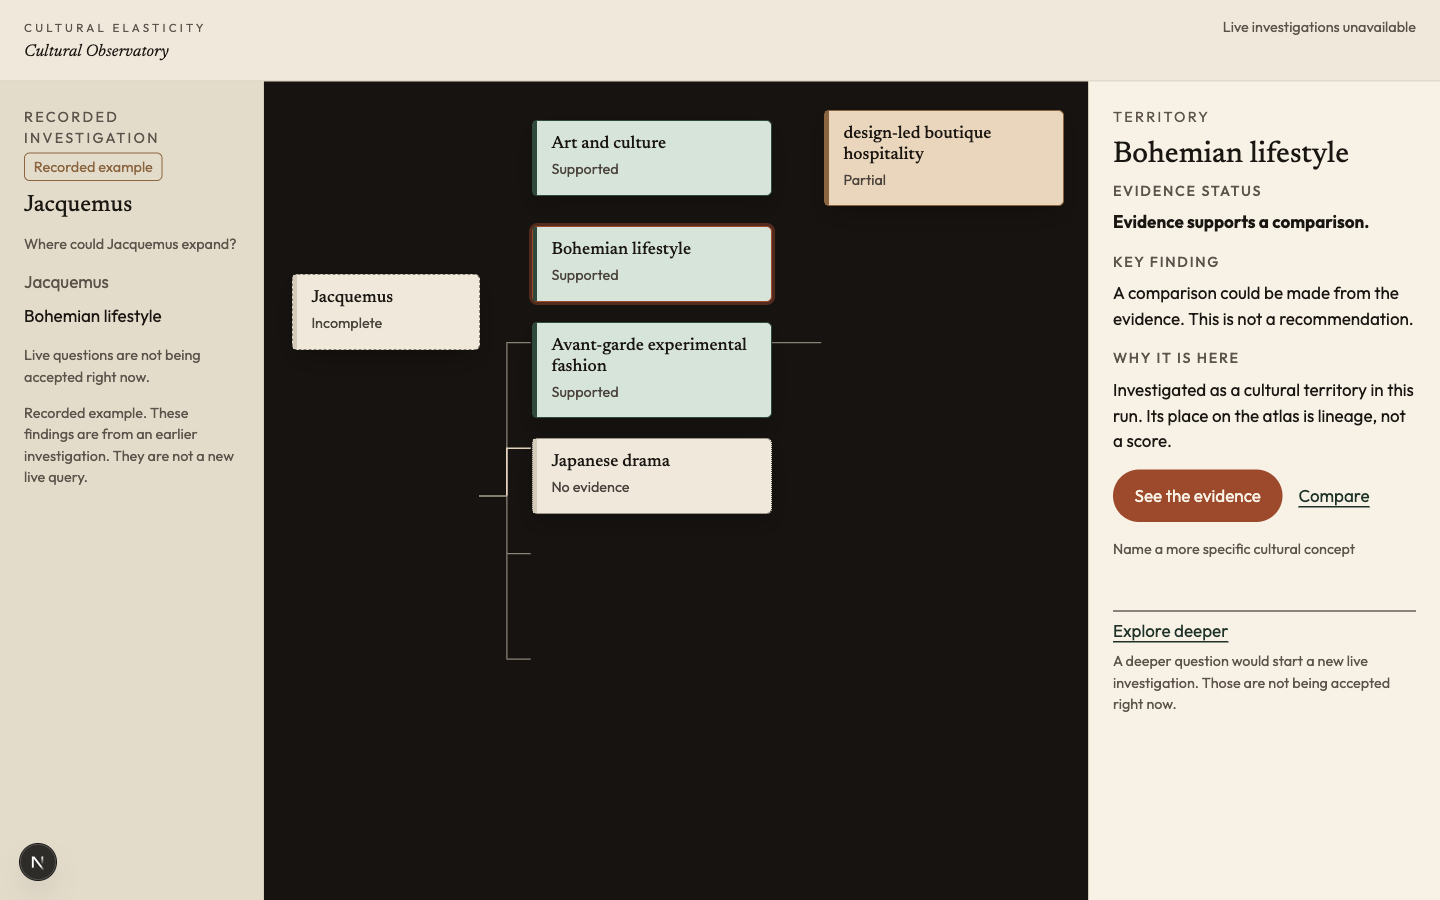
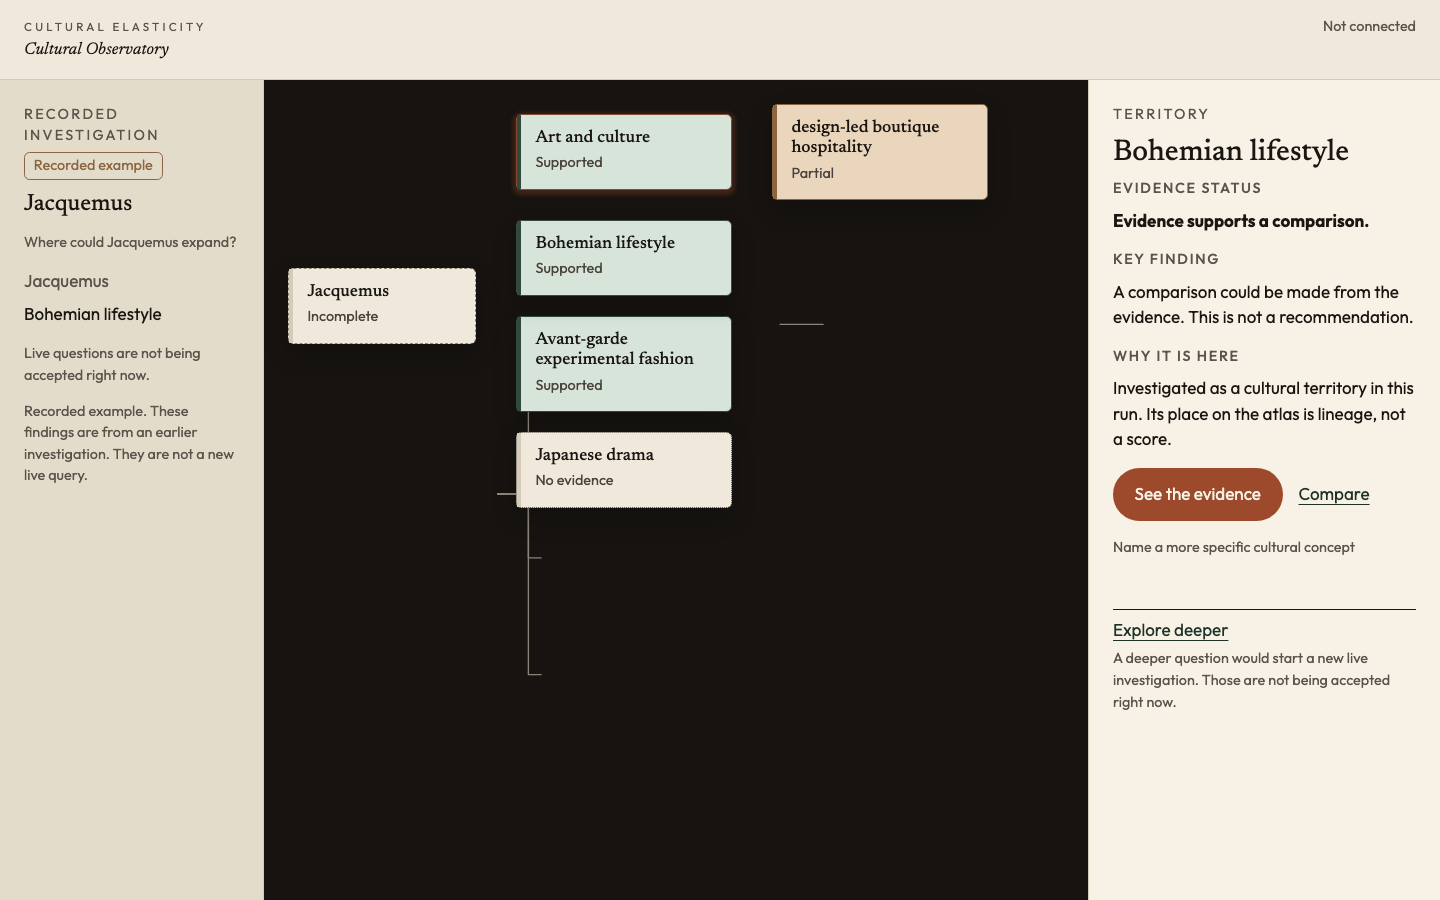
Keep nested territories visible in the landing preview and on tablet.
Scale the recorded tree to fit its pane, stack the finding under a full-width atlas below 1100px, and cover those layouts with Playwright checks.

diff --git a/frontend/src/app/globals.css b/frontend/src/app/globals.css
@@ -310,12 +310,14 @@ summary:focus-visible {
 
 .badge {
   display: inline-block;
+  width: max-content;
   margin: 0 0 var(--ce-space-3);
   padding: 0.15rem 0.55rem;
   border: 1px solid var(--ce-line);
   border-radius: var(--ce-radius);
   font-size: 0.9rem;
   color: var(--ce-ink-soft);
+  justify-self: start;
 }
 
 .badge[data-kind="recorded"] { border-color: var(--ce-brass); color: var(--ce-brass); }
@@ -359,6 +361,14 @@ summary:focus-visible {
   flex: 1;
   min-height: 28rem;
   overflow: auto;
+}
+
+.canvas[data-preview="true"] {
+  overflow: hidden;
+}
+
+.canvas__stage {
+  position: relative;
 }
 
 .canvas__edges {
@@ -410,7 +420,7 @@ summary:focus-visible {
 .atlas-node small { display: block; margin-top: 0.3rem; color: var(--ce-ink-soft); font-size: 0.9rem; line-height: 1.3; }
 
 .atlas-node[data-kind="brand"] { width: 11.75rem; }
-.landing__preview .canvas { overflow: auto; }
+.landing__preview .canvas { overflow: hidden; }
 .atlas-node[data-tone="supported"] { background: var(--ce-botanical-soft); border-color: var(--ce-botanical); }
 .atlas-node[data-tone="supported"] .atlas-node__mark { background: var(--ce-botanical); }
 .atlas-node[data-tone="partial"] { background: var(--ce-sand); border-color: var(--ce-brass); }
@@ -494,12 +504,13 @@ summary:focus-visible {
   overflow: auto;
   z-index: 5;
   box-shadow: var(--ce-shadow);
+  isolation: isolate;
   animation: inspector-in var(--ce-motion-med) ease;
 }
 
 @keyframes inspector-in {
-  from { transform: translateX(1.25rem); opacity: 0.4; }
-  to { transform: none; opacity: 1; }
+  from { transform: translateX(1.25rem); }
+  to { transform: none; }
 }
 
 .inspector h2, .inspector h3 { font-family: var(--ce-serif); font-weight: 500; }
@@ -530,9 +541,18 @@ summary:focus-visible {
 
 @media (max-width: 1099px) {
   .landing { grid-template-columns: 1fr; min-height: 0; padding-bottom: var(--ce-space-6); }
-  .landing__preview { min-height: 18rem; }
-  .workspace { grid-template-columns: minmax(0, 1.4fr) minmax(16rem, 0.9fr); grid-template-rows: auto 1fr; }
-  .rail { grid-column: 1 / -1; display: grid; grid-template-columns: 1fr 1fr; gap: var(--ce-space-4); border-right: 0; border-bottom: 1px solid var(--ce-line); }
+  .landing__preview { min-height: 20rem; }
+  .workspace { grid-template-columns: 1fr; grid-template-rows: auto minmax(24rem, 1fr) auto; }
+  .rail {
+    grid-column: 1;
+    display: grid;
+    grid-template-columns: minmax(0, 1fr) minmax(0, 1fr);
+    gap: var(--ce-space-4);
+    border-right: 0;
+    border-bottom: 1px solid var(--ce-line);
+  }
+  .observatory { min-height: 24rem; }
+  .finding { border-left: 0; border-top: 1px solid var(--ce-line); }
 }
 
 @media (max-width: 900px) {
@@ -552,17 +572,19 @@ summary:focus-visible {
   .mast { padding: var(--ce-space-3) var(--ce-space-4); }
   .landing { padding: var(--ce-space-5) var(--ce-space-4); min-height: calc(100vh - 4rem); overflow-x: hidden; }
   .landing h1 { font-size: clamp(2.2rem, 11vw, 3rem); }
-  .landing__preview { min-height: 14rem; max-height: 18rem; }
-  .landing__preview [role="list"], .canvas [role="list"] { width: 100% !important; height: auto !important; }
+  .landing__preview { min-height: 16rem; max-height: 20rem; }
   .landing__actions { flex-direction: column; align-items: stretch; }
   .landing__actions .primary, .landing__actions .ask { width: 100%; }
   .composer { flex-direction: column; align-items: stretch; }
   .workspace { display: flex; flex-direction: column; }
   .rail, .finding { width: 100%; }
   .observatory { background: var(--ce-paper); min-height: 0; }
-  .canvas { min-height: 0; overflow: visible; background: transparent; }
-  .canvas__edges { display: none; }
-  .atlas-node { position: static; width: 100%; margin-bottom: var(--ce-space-2); animation: none; }
+  .workspace .canvas { min-height: 0; overflow: visible; background: transparent; }
+  .workspace .canvas [role="list"] { width: 100% !important; height: auto !important; }
+  .workspace .canvas__edges { display: none; }
+  .workspace .atlas-node { position: static; width: 100%; margin-bottom: var(--ce-space-2); animation: none; }
+  .canvas[data-preview="true"] { overflow: hidden; min-height: 16rem; }
+  .canvas[data-preview="true"] .atlas-node { position: absolute; margin-bottom: 0; animation: none; }
   .rail { display: block; }
 }
 

diff --git a/frontend/src/components/atlas/InvestigationCanvas.tsx b/frontend/src/components/atlas/InvestigationCanvas.tsx
@@ -1,6 +1,6 @@
 "use client";
 
-import { useEffect, useMemo, useRef } from "react";
+import { useEffect, useMemo, useRef, useState } from "react";
 import { AtlasConnection } from "./AtlasConnection";
 import { AtlasNode } from "./AtlasNode";
 import { atlasExtent, boxOf, neighborId, type AtlasDraft } from "./atlas-model";
@@ -25,15 +25,33 @@ export function InvestigationCanvas({
   onSelect: (id: string) => void;
 }) {
   const scroller = useRef<HTMLDivElement>(null);
+  const [fit, setFit] = useState(1);
   const visible = useMemo(() => (guided ? guidedNodes(nodes, selectedId) : nodes), [guided, nodes, selectedId]);
   const extent = atlasExtent(nodes);
   useEffect(() => {
+    if (preview) return;
     const selected = scroller.current?.querySelector<HTMLElement>("[aria-pressed='true']");
     selected?.scrollIntoView({ block: "nearest", inline: "nearest", behavior: reducedMotion ? "auto" : "smooth" });
-  }, [selectedId, reducedMotion, guided]);
+  }, [selectedId, reducedMotion, guided, preview]);
+  useEffect(() => {
+    if (!preview) return;
+    const el = scroller.current;
+    if (!el) return;
+    const measure = () => {
+      const pad = 28;
+      const sx = (el.clientWidth - pad) / extent.width;
+      const sy = (el.clientHeight - pad) / extent.height;
+      if (!Number.isFinite(sx) || !Number.isFinite(sy) || sx <= 0 || sy <= 0) return;
+      setFit(Math.min(1, sx, sy) * 0.94);
+    };
+    measure();
+    const observer = new ResizeObserver(measure);
+    observer.observe(el);
+    return () => observer.disconnect();
+  }, [preview, extent.width, extent.height]);
 
-  return (
-    <div className="canvas" ref={scroller} data-testid="atlas-canvas" role="group" aria-label="Investigation">
+  const tree = (
+    <>
       {guided ? null : (
         <svg className="canvas__edges" aria-hidden="true" viewBox={`0 0 ${extent.width} ${extent.height}`} width={extent.width} height={extent.height}>
           {nodes.map((node) => {
@@ -62,6 +80,24 @@ export function InvestigationCanvas({
           </div>
         ))}
       </div>
+    </>
+  );
+
+  return (
+    <div className="canvas" ref={scroller} data-testid="atlas-canvas" data-preview={preview ? "true" : "false"} role="group" aria-label="Investigation">
+      {preview && !guided ? (
+        <div
+          className="canvas__stage"
+          style={{
+            width: extent.width,
+            height: extent.height,
+            transform: `scale(${fit})`,
+            transformOrigin: "0 0",
+          }}
+        >
+          {tree}
+        </div>
+      ) : tree}
     </div>
   );
 }

diff --git a/frontend/e2e/living-atlas.spec.ts b/frontend/e2e/living-atlas.spec.ts
@@ -115,6 +115,24 @@ test("a recorded example is labelled and does not start a job", async ({ page })
   expect(jobs).toEqual([]);
 });
 
+test("the landing preview keeps nested territories inside the pane", async ({ page }) => {
+  await page.setViewportSize({ width: 1440, height: 900 });
+  await open(page);
+  const hospitality = page.locator("[data-preview='true']").getByRole("button", { name: /design-led boutique hospitality/i });
+  await expect(hospitality).toBeVisible({ timeout: 20_000 });
+  await expect.poll(async () => {
+    const preview = await page.locator(".landing__preview").boundingBox();
+    const node = await hospitality.boundingBox();
+    if (!preview || !node) return false;
+    return (
+      node.x >= preview.x - 2 &&
+      node.y >= preview.y - 2 &&
+      node.x + node.width <= preview.x + preview.width + 2 &&
+      node.y + node.height <= preview.y + preview.height + 2
+    );
+  }).toBe(true);
+});
+
 test("paused admissions keep the recorded example as the primary action", async ({ page }) => {
   await page.route("**/api/agent/admissions", async (route) => {
     await route.fulfill({ status: 200, contentType: "application/json", body: JSON.stringify({ status: "paused" }) });
@@ -191,6 +209,21 @@ test.describe("reduced motion", () => {
     await open(page);
     await investigate(page);
     await expect(branch(page, /Coastal cooking/)).toHaveAttribute("data-reduced", "true");
+  });
+});
+
+test.describe("tablet", () => {
+  test.use({ viewport: { width: 768, height: 1024 } });
+  test("the recorded tree keeps nested territories in view", async ({ page }) => {
+    await open(page);
+    await page.getByTestId("recorded-open").click();
+    const hospitality = branch(page, /design-led boutique hospitality/);
+    await expect(hospitality).toBeVisible({ timeout: 15_000 });
+    await expect(hospitality).toBeInViewport();
+    const box = await hospitality.boundingBox();
+    expect(box).toBeTruthy();
+    expect(box!.x).toBeGreaterThanOrEqual(-2);
+    expect(box!.x + box!.width).toBeLessThanOrEqual(770);
   });
 });
 

diff --git a/frontend/src/components/atlas/atlas-model.test.ts b/frontend/src/components/atlas/atlas-model.test.ts
@@ -1,6 +1,6 @@
 import assert from "node:assert/strict";
 import test from "node:test";
-import { boxOf, buildAtlas, layoutAtlas, overlappingPairs, reasonCopy, shortStatus } from "./atlas-model.ts";
+import { atlasExtent, boxOf, buildAtlas, layoutAtlas, overlappingPairs, reasonCopy, shortStatus } from "./atlas-model.ts";
 import type { QueryResponse } from "@cultural-elasticity/shared";
 
 const id = "00000000-0000-4000-8000-0000000000aa";
@@ -248,6 +248,11 @@ test("layout keeps long labels inside collision-free boxes", () => {
   const long = first.find((node) => node.id === "c")!;
   assert.ok(boxOf(long, placed.get("c")!).height >= 76);
   assert.equal(shortStatus("unsupported", "No usable evidence"), "No evidence");
+  const extent = atlasExtent(first.map((node) => ({ ...node, ...(placed.get(node.id) ?? { x: 0, y: 0 }) })));
+  for (const box of boxes) {
+    assert.ok(box.x + box.width <= extent.width, "panel must sit inside the atlas extent");
+    assert.ok(box.y + box.height <= extent.height, "panel must sit inside the atlas extent");
+  }
 });
 
 test("the recorded example lays out without overlapping panels", async () => {

diff --git a/docs/sprint-9a/PRODUCT_EXPERIENCE_REINVENTION.md b/docs/sprint-9a/PRODUCT_EXPERIENCE_REINVENTION.md
@@ -39,14 +39,15 @@ Geometry remains investigation lineage. Position is not affinity, distance, oppo
 
 Version 3 tokens live in `frontend/src/app/globals.css` and the skill. Type is still Newsreader + Outfit via `next/font`. Motion tokens: `--ce-motion-fast` 160ms, `--ce-motion-med` 240ms, removed under `prefers-reduced-motion`.
 
-Breakpoints: ≥1100px three columns (context, atlas, finding); 721–1099px atlas + finding with a compact header; ≤720px guided branch list.
+Breakpoints: ≥1100px three columns (context, atlas, finding); 721–1099px compact header, full-width atlas, finding beneath (so a third lineage column is not clipped); ≤720px guided branch list. The landing preview scales the recorded tree to fit its pane.
 
 ## 4. What changed in the product
 
 - Landing: short value proposition, **Explore the Jacquemus investigation** as primary CTA, atlas preview from the recorded artifact, How it works dialog. Ask is mounted only when `/api/agent/admissions` reports `accepting`.
 - Admissions probe: Next.js `GET /api/agent/admissions` reads backend `/ready` and returns `{ status: "accepting" \| "paused" \| "unavailable" }` only. No boot id, credentials, or spend.
 - Atlas layout: measured tidy tree (`layoutAtlas`) with collision resolution. Recorded Jacquemus (five+ territories, long names) lays out with zero overlapping boxes.
-- Workspace: context rail, observatory canvas, selected finding.
+- Landing preview scales that tree to fit its pane, so nested territories such as design-led boutique hospitality are not clipped.
+- Workspace: context rail, observatory canvas, selected finding. Below 1100px the finding stacks under a full-width atlas so a third lineage column stays in view.
 - Territory: status, key finding, why it is here, next action. Follow-up and new comparisons are disabled when live questions are not accepting, with the reason at that decision point.
 - Evidence: dossier with a lead finding, then observed / calculated / inferred / missing. Whole-run notes and provenance sit behind disclosures.
 - Mobile: stacked territory plates, parent–child still in the list, no shrunken graph, primary CTA above the fold at 390×844.
@@ -84,23 +85,36 @@ Remaining: the Next.js dev overlay is not in production. Long methodology string
 
 Frontend unit tests cover recorded parse, evidence scope, collision-free layout (including the Jacquemus artifact and long names), admissions parsing, and visitor identity.
 
-Browser suite (`pnpm test:e2e`) is synthetic: no Qloo, no Haiku. **17 passed.** New coverage: recorded primary CTA, paused admissions (Ask absent, follow-up disabled, no job POST), responsive branch list, keyboard selection, reduced motion.
+Browser suite (`pnpm test:e2e`) is synthetic: no Qloo, no Haiku. **19 passed.** Coverage: recorded primary CTA, paused admissions (Ask absent, follow-up disabled, no job POST), landing-preview fit, tablet nested-territory visibility, responsive branch list, keyboard selection, reduced motion.
 
 Also run: `pnpm lint` (pass), `pnpm typecheck` (pass), `pnpm test` (frontend 17, backend 756 / 60 files), `pnpm check:secrets` (pass), `pnpm build` (pass; new route `GET /api/agent/admissions`).
 
 ## 9. Protected Vercel preview
 
-Preview of this branch only. Authentication must remain **All Deployments**. No `--prod`. If an anonymous GET returns the app, report `VERCEL_PROTECTION_GATE_FAILED`.
+Preview of this branch only. No `--prod`. SSO protection is `deploymentType: all`.
+
+| | |
+| --- | --- |
+| Deployment | `dpl_F3PQzUqA8xrvZeQgL5oJ9ugbCuk8` (READY, `target: null`) |
+| Unique URL | `https://cultural-elasticity-n6bih6rjx-raulmermans-projects.vercel.app` |
+| Branch alias | `https://cultural-elasticity-git-sprint-9a-p-ed0ba1-raulmermans-projects.vercel.app` |
+| Project | `cultural-elasticity` (`prj_AHQcMcLFwGUOpRmepvwcc89LyOYo`) |
+| Anonymous probe | **VERCEL_PROTECTION_PROBE_PASS** — both URLs HTTP 401, `servedApp=false` |
+
+A later commit on this branch will create a new protected preview of the same Git ref. Do not promote production.
 
 ## 10. Git
 
 Branch: `sprint/9a-product-experience-reinvention` (from `sprint/8f2-deployment-activation`).  
-Commit: `ab77f81e8316ff6648d43757c167dc9e2935ba2b` — *Sprint 9A: reinvent the Living Atlas as a Cultural Observatory.*
+Implementation: `ab77f81e8316ff6648d43757c167dc9e2935ba2b` — *Sprint 9A: reinvent the Living Atlas as a Cultural Observatory.*  
+Report SHA (this file, first cut): `0237d521a8c392c35894bc4d0e37e4278cf60d45`.
 
 ## 11. Remaining visual defects
 
 - Calculated evidence still contains methodology identifiers such as `UNCERTAIN_REPRESENTATION_SENSITIVE`. Rewriting those strings would change analytical copy owned by the backend; they stay as recorded.
-- Landing atlas preview on a narrow phone is a clipped peek under the CTA, not a second interactive graph. The CTA remains the entry.
+- On 390×844 the landing preview sits on the fold; the last plate can meet the viewport edge. The primary CTA is above the fold. Opening the recorded example uses the guided list, not that peek.
+- The evidence inspector overlays the atlas. A nested territory on the right edge can sit under the dossier while the inspector is open. Close returns it.
+- Orthogonal lineage edges are sometimes sparse on the wide desktop field. Parent–child remains readable from column and connector.
 - In-process jobs and admissions stay paused until a later, separately authorised sprint.
 
 ## 12. Release readiness

diff --git a/.agents/skills/living-atlas-design/SKILL.md b/.agents/skills/living-atlas-design/SKILL.md
@@ -143,8 +143,9 @@ Target WCAG 2.2 AA. Visible focus, labels on fields, dialogs with names, status 
 ## Responsive
 
 - ≥1100px: context rail, atlas, selected finding.
-- 721–1099px: atlas and finding; context as a compact header.
+- 721–1099px: compact context header, full-width atlas, finding beneath. Do not place a side finding that clips the tree.
 - ≤720px: guided branch list. No desktop graph. No horizontal overflow.
+- The landing preview scales the recorded tree to fit its pane. It is a complete peek, not a clipped fragment.
 
 Primary CTA remains above the fold at 1440×900 and 390×844.
 
